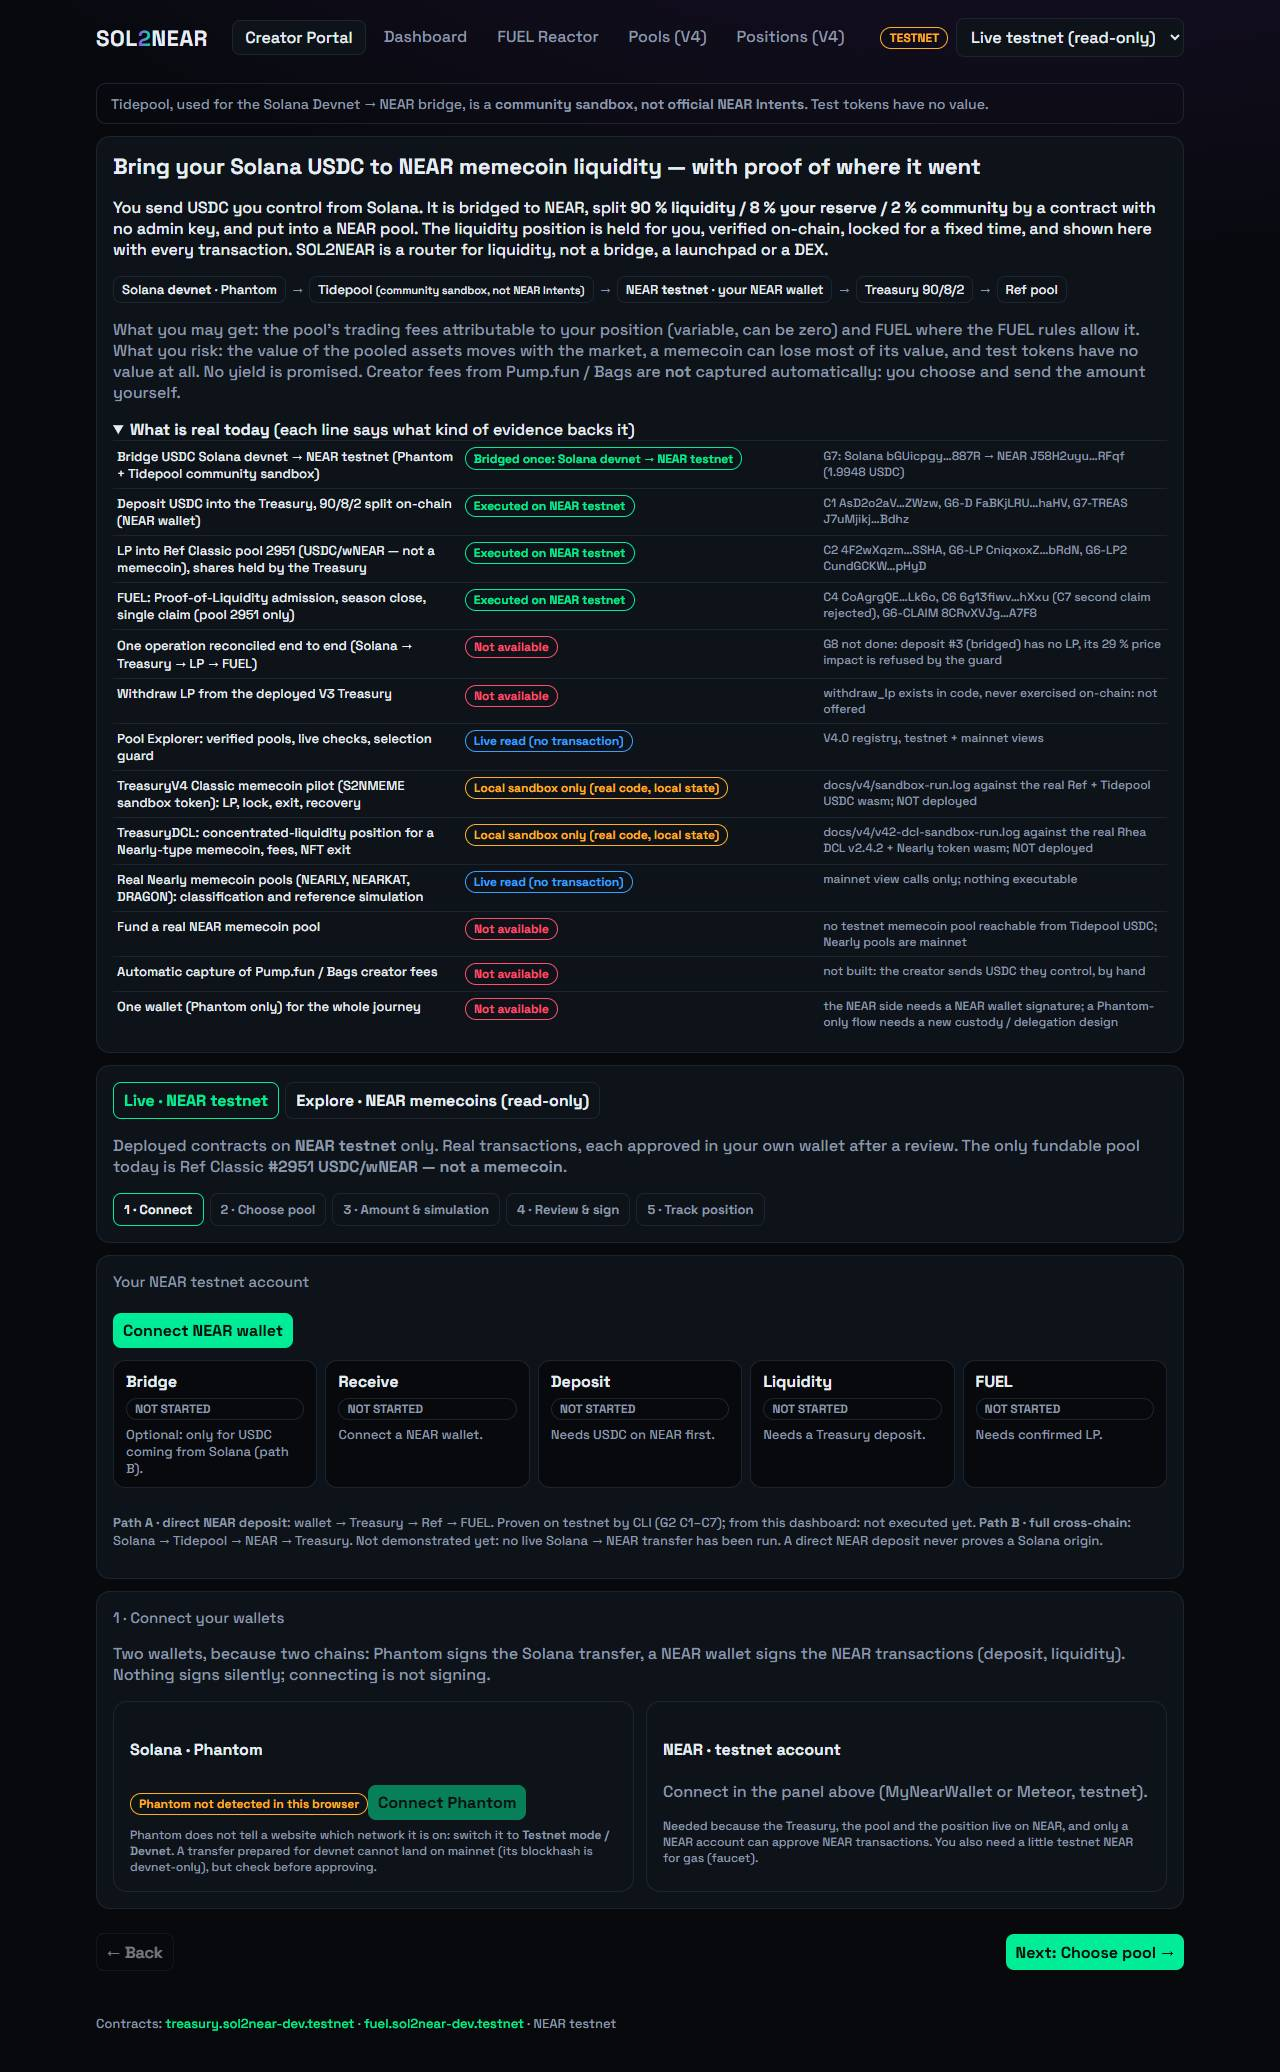
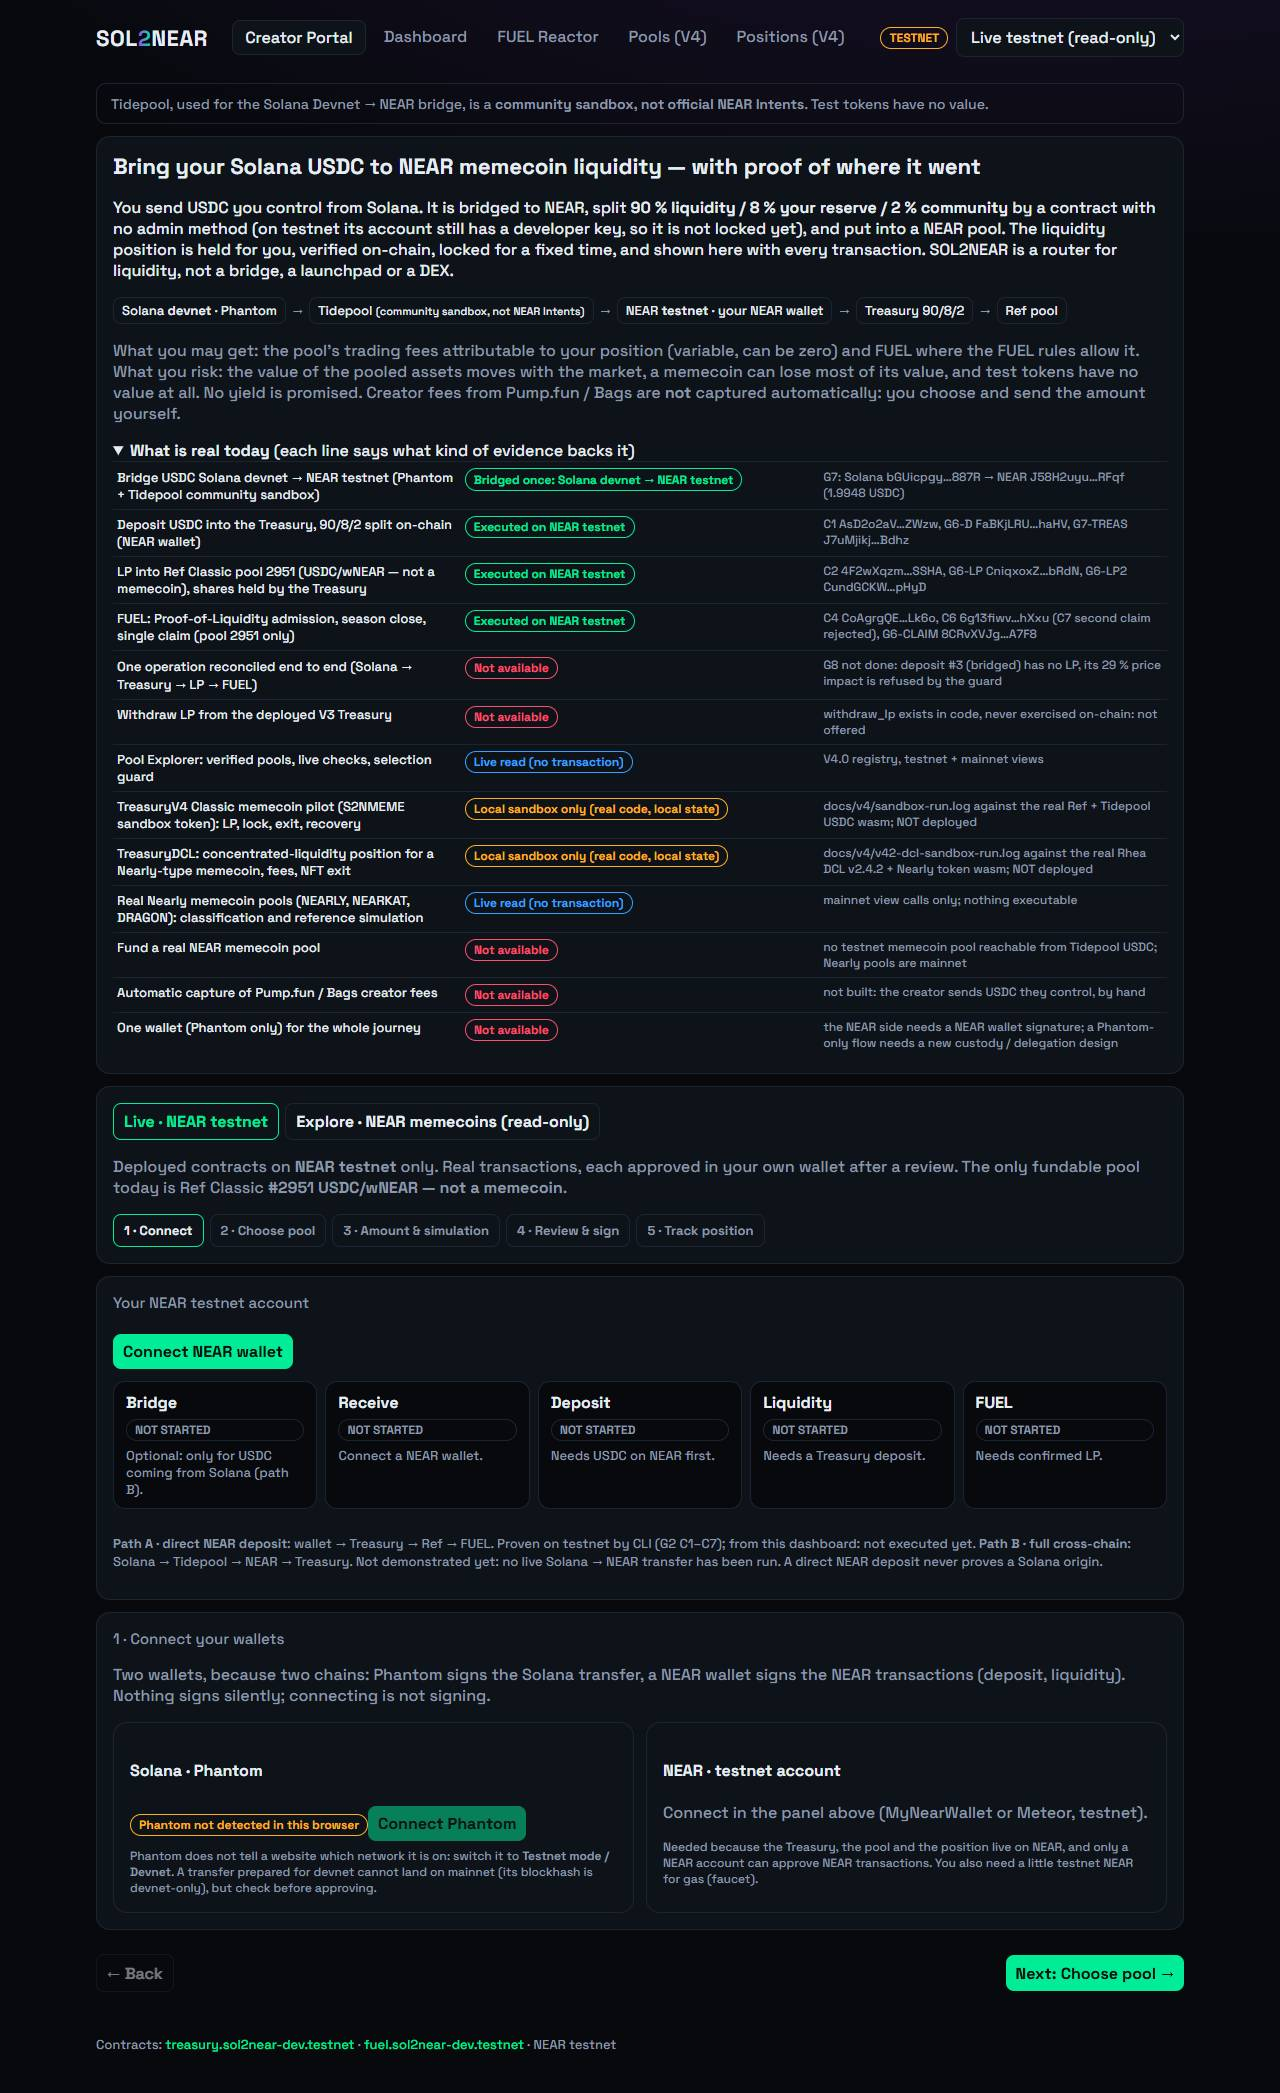
docs(accuracy): disclose full-access keys on the deployed contract accounts; V3 budget lock-in; why NEAR
The README said nobody holds an admin key. The contracts have no admin method, but
view_access_key_list shows a full-access key on treasury.sol2near-dev.testnet and
fuel.sol2near-dev.testnet (the developer could redeploy). README, portal hero text and the
audit diagram now say so. Adds the V3 budget lock-in risk and a short, code-based Why NEAR section.

diff --git a/apps/web/src/portal/CreatorPortal.tsx b/apps/web/src/portal/CreatorPortal.tsx
@@ -81,7 +81,7 @@ function Hero() {
       <h2>Bring your Solana USDC to NEAR memecoin liquidity — with proof of where it went</h2>
       <p>
         You send USDC you control from Solana. It is bridged to NEAR, split <b>90 % liquidity / 8 % your reserve / 2 % community</b> by a contract with no
-        admin key, and put into a NEAR pool. The liquidity position is held for you, verified on-chain, locked for a fixed time, and shown here with
+        admin method (on testnet its account still has a developer key, so it is not locked yet), and put into a NEAR pool. The liquidity position is held for you, verified on-chain, locked for a fixed time, and shown here with
         every transaction. SOL2NEAR is a router for liquidity, not a bridge, a launchpad or a DEX.
       </p>
       <div className="route" aria-label="Networks">

diff --git a/README.md b/README.md
@@ -18,7 +18,13 @@ SOL2NEAR lets a creator **voluntarily** route USDC from Solana to a NEAR **Treas
 3. **measures the LP shares on-chain**, holds them for the creator, locks them, and publishes a **Proof of Liquidity**;
 4. feeds the **FUEL Reactor**: FUEL is a fixed-supply NEP-141 memecoin earned only for LP that Ref itself confirms the Treasury holds. Community seasons level the Reactor up, or level it down and burn a small prefunded slice of supply. The mechanic reads LP state, never the price chart. See `docs/FUEL_REACTOR.md`.
 
-The rules (split, lock, token ids, pool, FUEL supply and season parameters) are fixed at deployment, and nobody holds an admin key over them.
+The rules (split, lock, token ids, pool, FUEL supply and season parameters) are fixed at deployment: the contracts have **no owner, no admin method and no setter**. **However, the testnet contract accounts `treasury.sol2near-dev.testnet` and `fuel.sol2near-dev.testnet` still hold a full-access key** (read with `view_access_key_list`, 2026-11-14): its holder, the developer, could redeploy different code. The rules are therefore enforced by the code, not yet locked at the account level. Deleting those keys would make them immutable; that has not been done.
+
+## Why NEAR (what the code actually relies on)
+
+- **The proof is checked by contracts, not by a server:** the Treasury reads Ref with asynchronous cross-contract calls (`get_pool_shares`, `get_deposits`) to confirm the LP it holds, and FUEL re-reads the Treasury and Ref before admitting a position. No oracle and no backend are involved.
+- **A destination for cross-chain capital:** NEAR Intents' 1Click API lets a Solana user deliver tokens to a NEAR account. SOL2NEAR uses Tidepool, a community 1Click-compatible **testnet sandbox** (not NEAR Intents itself), for that leg.
+- **NEAR memecoin markets exist on Ref/Rhea:** Classic pools, and DCL pools where Nearly launches its tokens. SOL2NEAR targets them as the place where the creator's liquidity ends up. Today that is only in a local sandbox (V4); the executable path is the test pool 2951.
 
 ## Status — what is proven, and how (2026-11-14)
 
@@ -58,7 +64,8 @@ Every line names its kind of evidence. They are never mixed: a sandbox run is no
 
 ### 6. FUEL, custody and transfer risks
 - **FUEL** recognises only the V3 Treasury and pool 2951 (no setter). V4.1 and V4.2A positions are `FUEL_NOT_ELIGIBLE`.
-- **Custody:** LP shares and DCL positions are held by the Treasury contract for the creator (no admin key, no setter). The deployed contracts are **unaudited**; Ref/Rhea contracts are upgradeable by their DAOs.
+- **Custody:** LP shares and DCL positions are held by the Treasury contract for the creator (no admin method, no setter in the code). The deployed testnet accounts still have a **full-access key** (the developer could redeploy them); they are not locked. The contracts are **unaudited**; Ref/Rhea contracts are upgradeable by their DAOs.
+- **V3 budget lock-in:** the deployed V3 Treasury has no `abort` and no way to return an LP budget. Once deposited, the 90 % budget can only become LP in pool 2951 (deposit #3 waits for that, see G8).
 - **Transfers:** Tidepool is a third-party test service without SLA (deposit address, settlement). Test tokens have no value.
 - **No yield is promised.** Pool fees are variable and can be zero; a concentrated position earns nothing out of its range.
 

diff --git a/docs/FINAL_RELEASE_AUDIT.md b/docs/FINAL_RELEASE_AUDIT.md
@@ -12,7 +12,7 @@ Technical freeze audit. No X post, video, deck or submission. Nothing pushed, no
 
 ```text
 Solana devnet ──Phantom──▶ Tidepool (community 1Click-compatible sandbox) ──▶ NEAR testnet wallet
-NEAR wallet ──ft_transfer_call──▶ Treasury V3 (deployed, no admin) ── 90/8/2 ──▶ execute_lp ──▶ Ref Classic #2951 (USDC/wNEAR test pool)
+NEAR wallet ──ft_transfer_call──▶ Treasury V3 (deployed, no admin method; account still has a full-access key) ── 90/8/2 ──▶ execute_lp ──▶ Ref Classic #2951 (USDC/wNEAR test pool)
 Treasury LP shares ──Proof of Liquidity──▶ FUEL (deployed, fixed supply, seasons of 30 min)
 V4.1 TreasuryV4 (Classic memecoin pilot)  ─ local sandbox only
 V4.2A TreasuryDCL (Rhea DCL / Nearly)      ─ local sandbox only; Nearly pools read on mainnet (views only)
